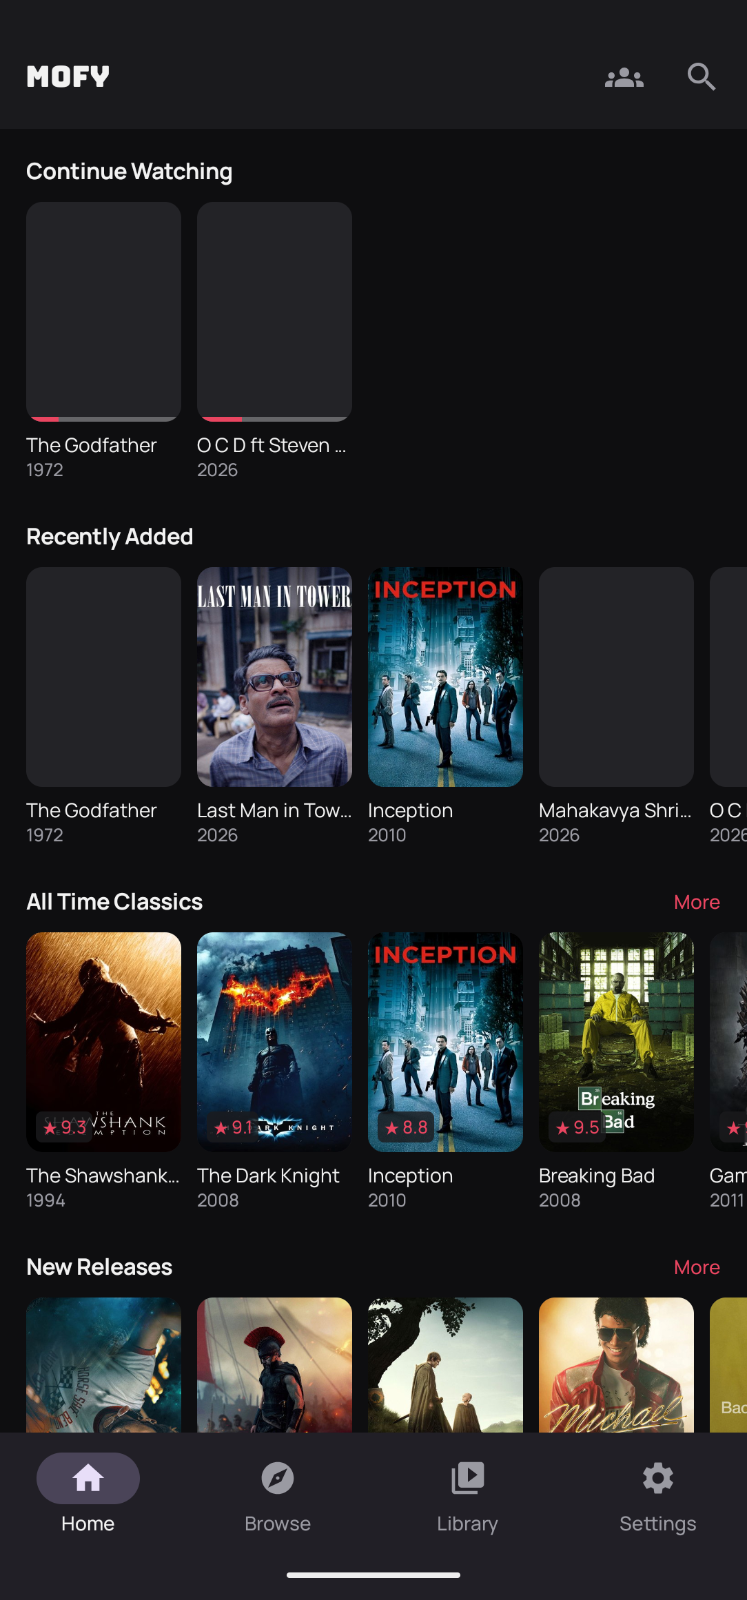
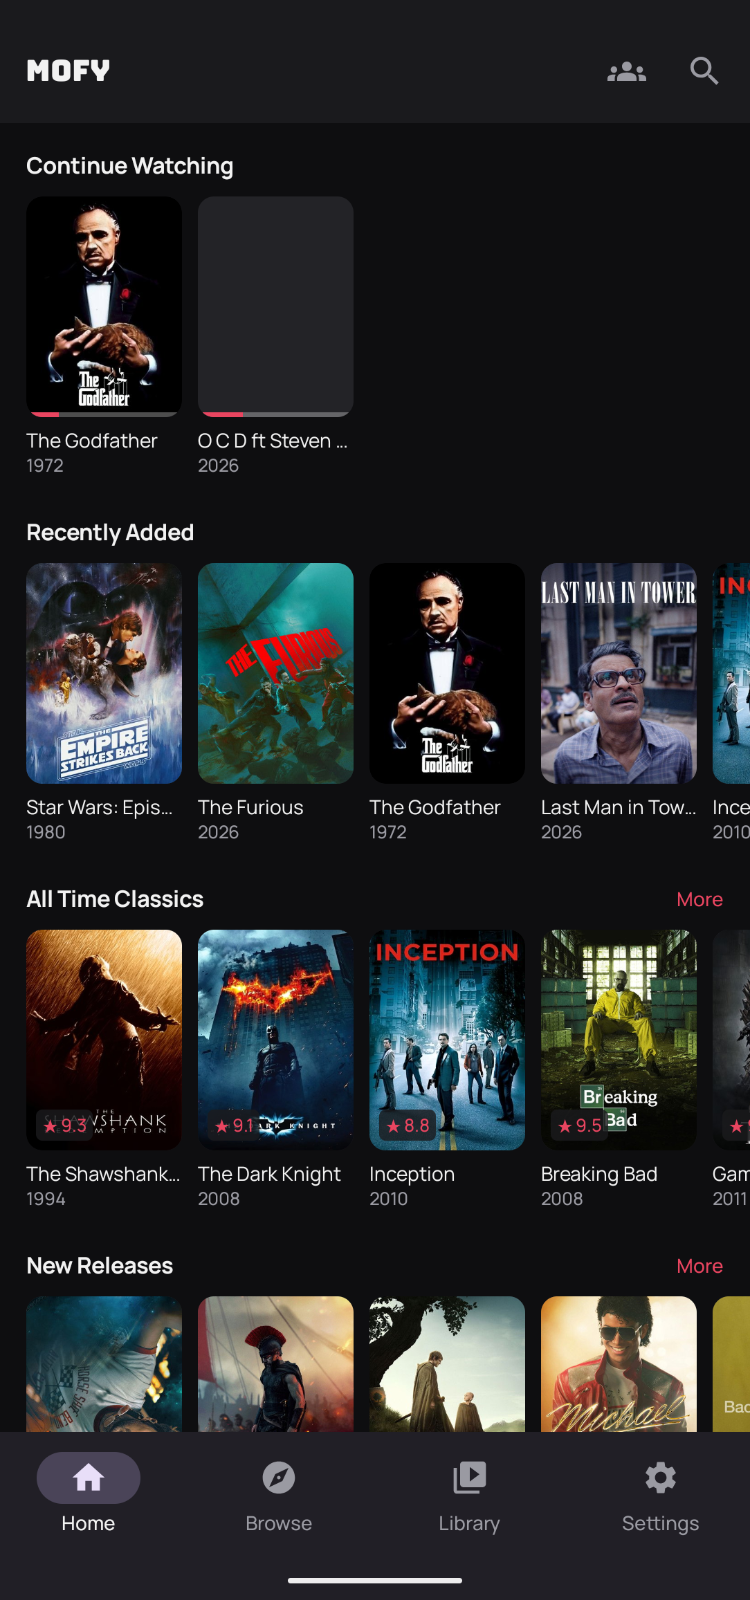
chore(landing): refresh Home shot, add Settings + YouTube search shots
- Replace the Home screenshot with a poster-filled capture (shot-11).

- Add shot-17 (Settings: on-device model downloads + bring-your-own TMDB key).

- Add shot-18 (in-app YouTube search with the corrected header); drop the old shot-16.

- New Settings section copy and ticker item.

diff --git a/landing/index.html b/landing/index.html
@@ -644,6 +644,7 @@
         <span class="ticker-item">Continue Watching</span>
         <span class="ticker-item">Watch Together</span>
         <span class="ticker-item">libVLC &amp; torrents</span>
+        <span class="ticker-item">Your own TMDB key</span>
         <span class="ticker-item">No accounts</span>
         <span class="ticker-item">TMDB release feed</span>
         <span class="ticker-item">Private by design</span>
@@ -655,6 +656,7 @@
         <span class="ticker-item">Continue Watching</span>
         <span class="ticker-item">Watch Together</span>
         <span class="ticker-item">libVLC &amp; torrents</span>
+        <span class="ticker-item">Your own TMDB key</span>
         <span class="ticker-item">No accounts</span>
         <span class="ticker-item">TMDB release feed</span>
         <span class="ticker-item">Private by design</span>
@@ -780,7 +782,7 @@
             <span class="step-num" aria-hidden="true">03</span>
             <div class="phone-frame">
               <div class="phone-screen">
-                <img src="images/shot-16.png" alt="Mofy YouTube search results for a full movie query, listing trailers and a full-length result with their durations." width="750" height="1600" loading="lazy" decoding="async">
+                <img src="images/shot-18.png" alt="Mofy YouTube search screen, titled YOUTUBE, showing a full-movie query and results that mix trailers with a full-length upload and their durations." width="751" height="1600" loading="lazy" decoding="async">
               </div>
             </div>
             <figcaption>Search, then pick a resolution</figcaption>
@@ -860,6 +862,31 @@
               </div>
             </div>
             <figcaption>Watch Together</figcaption>
+          </figure>
+        </div>
+      </article>
+
+      <!-- Settings -->
+      <article class="feature flip reveal" id="settings">
+        <div class="feature-copy">
+          <p class="eyebrow">Settings</p>
+          <h3>Your models, your key</h3>
+          <p class="lede">The on-device models behind semantic search and facet detection are managed from Settings, where you can download or re-download them whenever you like. Mofy also takes your own free TMDB API key — the button opens TMDB in-app so you can get one — and falls back to the shared default key if you would rather not use your own.</p>
+          <ul class="chips">
+            <li class="chip">On-device models</li>
+            <li class="chip">Re-download anytime</li>
+            <li class="chip">Bring your own TMDB key</li>
+            <li class="chip">Shared default key</li>
+          </ul>
+        </div>
+        <div class="feature-art">
+          <figure class="phone">
+            <div class="phone-frame">
+              <div class="phone-screen">
+                <img src="images/shot-17.png" alt="Mofy Settings screen with a TMDB API key field, a Get a free TMDB API key button, and a Model downloads section listing distilbert-onnx and embeddinggemma as complete with Re-download buttons." width="752" height="1600" loading="lazy" decoding="async">
+              </div>
+            </div>
+            <figcaption>Settings</figcaption>
           </figure>
         </div>
       </article>
